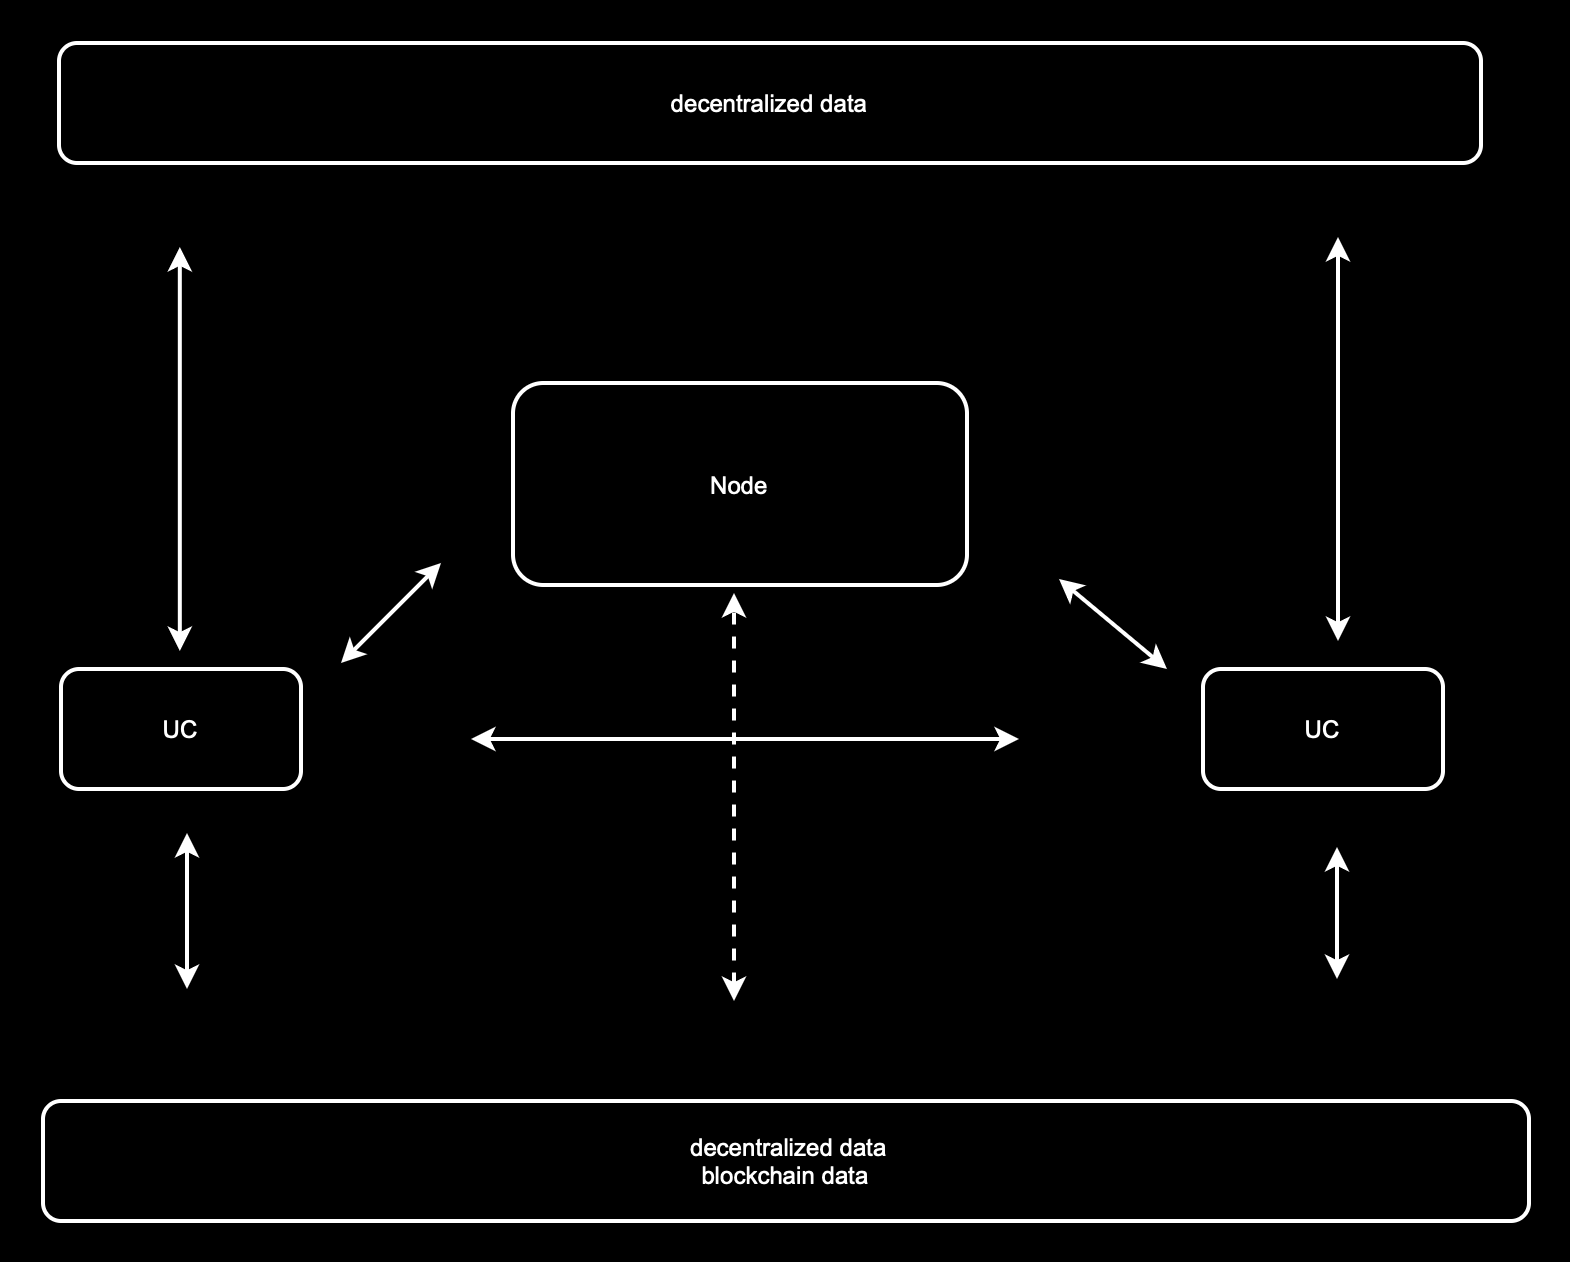
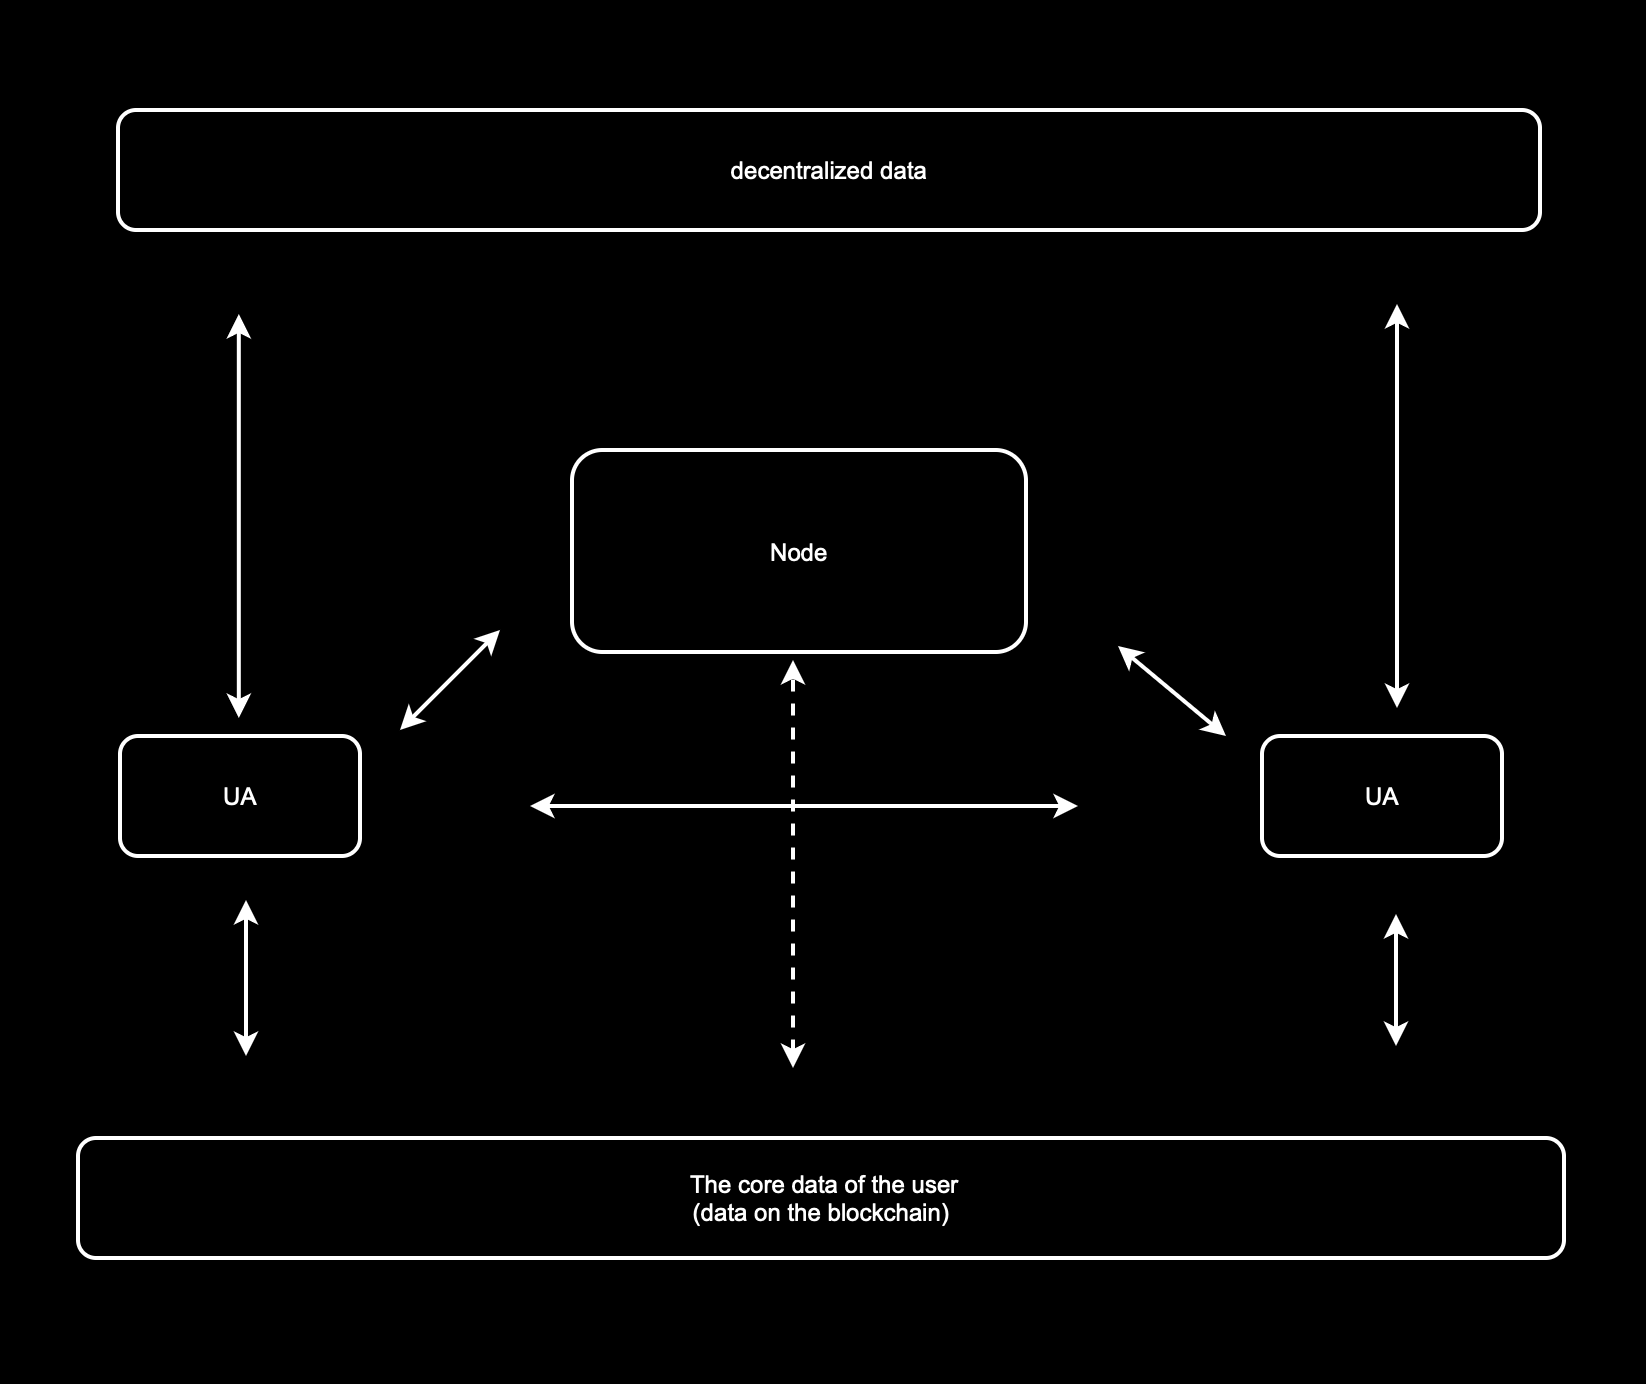
telprotocol info

diff --git a/README.md b/README.md
@@ -1,41 +1,39 @@
-# telprotocol
-This paper aims to explore a new type of network transmission structure. A decentralized communication protocol based on SIP protocol combined with block chain technology.
+# What is Telprotocol?
+Telprotocol is building a layer of decentralized communication networks. It can be used for dialing telephone, text message service, video calling .
+
+The architecture of Telprotocol is a peer-to-peer protocol architecture, similar to the P2P architecture. Telprotocol is built on zksync. The telephone supports multiple chains and cross-chain transfers, and users can also use it on arbitrum or optimism.
 
 
-# Several popular architectures:
-C/S architecture is a typical two-tier architecture, the full name is Client/Server, that is, Client/Server-side architecture.  
-  
-B/S (Browser/Server) architecture, that is, Browser and Server architecture pattern, is a change or improvement of C/S architecture with the rise of Internet technology.  
-  
-P2P networks, which are peer-to-peer networks, rely on the computing power and bandwidth of the participants in the network, rather than concentrating the dependencies on fewer servers.  
-  
-In 2009, Bitcoin, the first open-source, decentralized cryptocurrency to be run by non-government, Internet users, became available to more people to learn about the power of the blockchain.  
-Decentralization and exclusive ownership are the biggest features of bitcoin. The popularity of bitcoin, but also from the side of the People's desire for freedom, no borders, exclusive rights. My is my, others can not interfere, I do not like others to pry into my privacy, do their own things.
-A borderless, free, user-friendly communications network is necessary.
+# What problems does Telprotocol solve?
+Most of the calls in the current market run as centralized services, such as China Telecom, China Unicom, and Skype.
+Telprotocol is built on a blockchain and is explored in the direction of decentralization. It has the following advantages:
+
+1. The user's core data is stored in the chain.
+2. Communication data, is a point-to-point connection, there is no intermediate server.
+3. Encrypt communication data to ensure data security.
+4. Transmission of core data is real-time, after receiving immediately destroyed, to ensure the safety of calls.
 
 
-# How does this work?
+# What does Telprotocol consist of ?
 ![avatar](/tel.png)
-1. The base data is stored in the chain and is under the full control of the user.
-Telephone: The identity number, through which users can find other users on The chain.
-In the form of NFT, store in the chain, support users to sell, once sold, and the user-related data will change.
-Support for custom names, such as Alice.eth
+1. 
+The core data is stored in the chain as NFT and is under the full control of the user.
 
-2. UC, which is a client that users can use to communicate with other users. UC is usually implemented on multiple platforms, mobile, PC, and Web.
-UC is divided into two categories, one is to support deep login (need to import the Ethernet account way of login) , the other is to support light login (use phone and password, direct login) .
-Deep login fully controls light login. The implementation of UC needs to satisfy the SIP protocol partial protocol.
+2. 
+UA, which is a client that users can use to communicate with other users. UA is usually implemented on multiple platforms, mobile, PC, and Web.
+UA is divided into two categories, one is to support deep login (need to import the Ethernet account way of login) , the other is to support light login (use password, direct login) .
+Deep login fully controls light login. The implementation of UA needs to satisfy SIP protocol .
 
-3. The node is mainly responsible for the establishment of signaling channel, the node will load the block chain data automatically, and the data interaction of the node supports part of the SIP protocol.
-There will be a hub on the final node, and the hub will assign users to different nodes based on the current network operation status to support more users.
-Each node can support about 1000 users at the same time, and there will be differences in different environments.
-
-4. The user-generated data mainly exists in the UC end, and the node does not store the data. Users can choose to use deep login, upload to the decentralized storage side, if the UC is deleted, users can download other UC side, and then in the way of deep login, can be repulled from the decentralized storage side. Data will be shared between different UC.
-
-5. Data support encryption, to ensure the security of user's important data.
+3. 
+The node is mainly responsible for the establishment of signaling channel. the node will load the block chain data automatically, and the data interaction of the node supports part of SIP protocol.
 
 
-# How to communicate?
-The architecture of telprotocol is a peer-to-peer protocol architecture, similar to the P2P architecture, and the data form of request and response between node and UC of telprotocol satisfies SIP protocol.
+# How Telprotocol is implemented？
+Telprotocol is a layer of point-to-point communication network built on a user's core data. The data interaction between the UA and Node satisfies the Sip protocol.
+
+The user's core data is the basis of telprotocol, UA loads the user's core data, the user needs signature verification.
+
+Node verifies the authenticity of UA data by loading the user's core data. Node builds a signaling channel for the authenticated user.
 
 Alice "calls" Bob using his identity alice.eth, a type of Uniform Resource
    Identifier (URI) called a URI,such as alice.eth@telprotocol.
@@ -102,8 +100,32 @@ Alice "calls" Bob using his identity alice.eth, a type of Uniform Resource
    ![avatar](/interaction.png)
 
 
-For more detailed data exchange benchmarks, see:  
-https://www.rfc-editor.org/rfc/rfc3261  
+# How should I get involved?
+Telephone
+![avatar](/telephone.png)
+
+
+Sms
+![avatar](/sms.png)
+
+
+# How to ensure the security of the account?
+Deep Login and Light Login
+Deep Login： In the UA end, you must import the account of Ethereum to verify the authenticity of the data.
+
+Light Login:  In the UA side, you don't need to import your account, but use a password to log in.
+
+The password must be set in Deep Login mode.
+
+
+# Telprotocol Demo
+
+PC Slide
+https://youtu.be/7Kk0W4Zxly4
+
+
+Mobile Slide
+https://youtube.com/shorts/wedcUmf_yrY?feature=share
 
 
 # How should I get involved?
